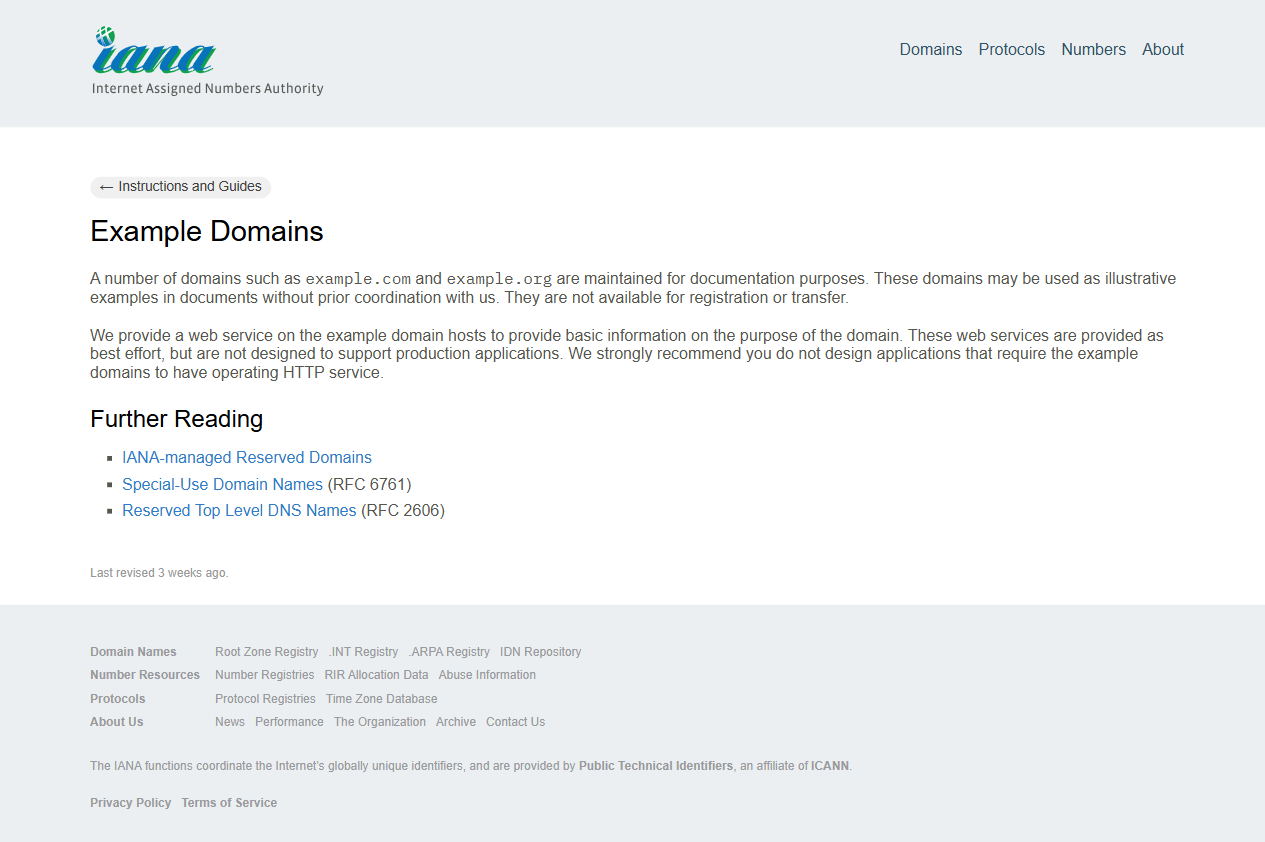
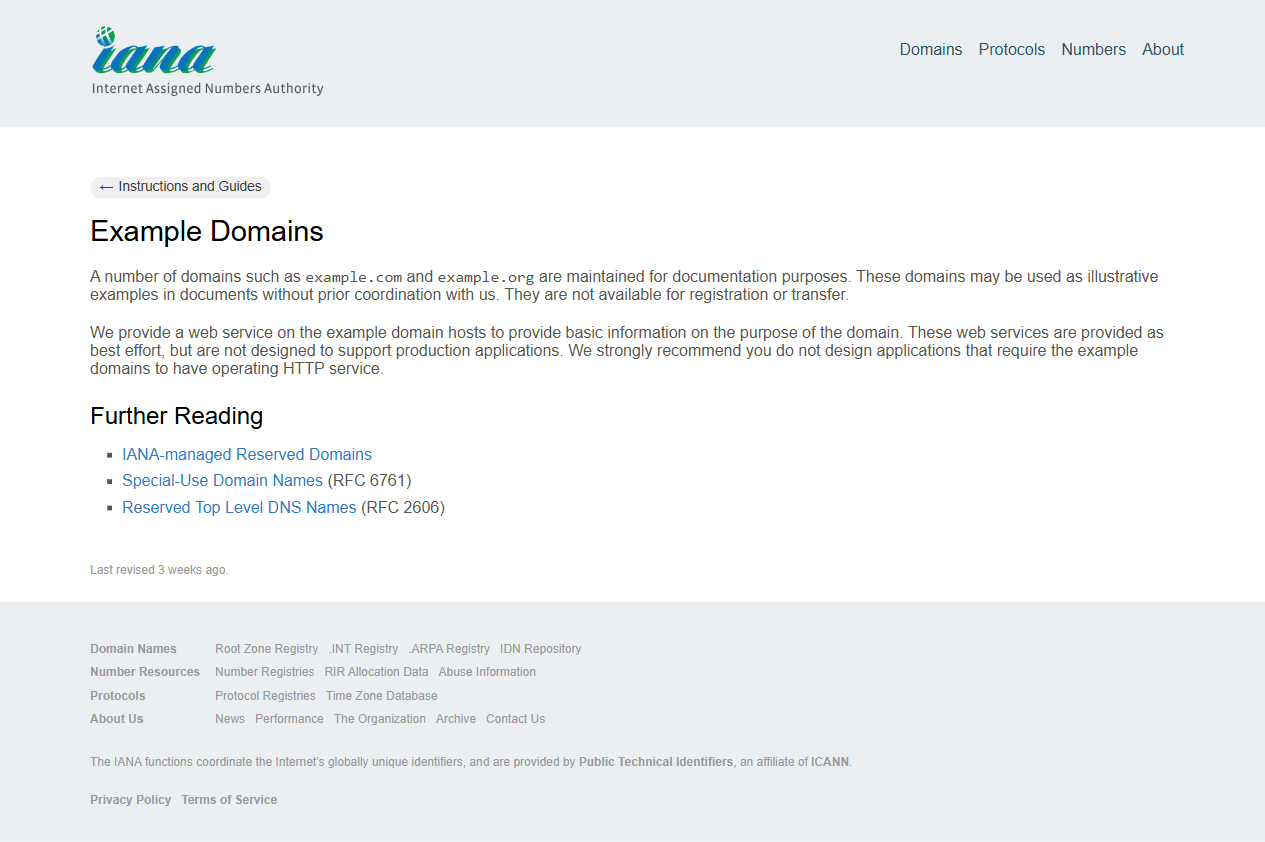
feat: successfully integrated test reporter and FastAPI endpoints

diff --git a/backend/reporter.py b/backend/reporter.py
@@ -1,0 +1,93 @@
+import json
+import os
+from datetime import datetime
+
+class TestReporter:
+    def __init__(self, project_name="WebTrace AI QA"):
+        self.project_name = project_name
+        self.timestamp = datetime.now().strftime("%Y-%m-%d %H:%M:%S")
+        self.test_results = []
+        self.visual_bugs = []
+
+    def add_test_result(self, test_name, status, details, evidence_path=None):
+        """Individual test step ya assertion ka result add karne ke liye"""
+        self.test_results.append({
+            "test_name": test_name,
+            "status": status, # "PASS" ya "FAIL"
+            "details": details,
+            "evidence_path": evidence_path
+        })
+
+    def add_visual_bug(self, component, issue_description, severity="Medium"):
+        """Akanksha ke visual auditor/DOM checks se mile bugs add karne ke liye"""
+        self.visual_bugs.append({
+            "component": component,
+            "issue": issue_description,
+            "severity": severity
+        })
+
+    def generate_json_report(self, output_path="reports/test_report.json"):
+        """React Frontend dashboard ke liye JSON report generate karega"""
+        os.makedirs(os.path.dirname(output_path), exist_ok=True)
+        
+        total_tests = len(self.test_results)
+        passed_tests = sum(1 for t in self.test_results if t["status"] == "PASS")
+        failed_tests = total_tests - passed_tests
+        pass_rate = (passed_tests / total_tests * 100) if total_tests > 0 else 0
+
+        report_data = {
+            "project": self.project_name,
+            "timestamp": self.timestamp,
+            "summary": {
+                "total_tests": total_tests,
+                "passed": passed_tests,
+                "failed": failed_tests,
+                "pass_rate": round(pass_rate, 2),
+                "total_visual_bugs": len(self.visual_bugs)
+            },
+            "test_results": self.test_results,
+            "visual_bugs": self.visual_bugs
+        }
+
+        with open(output_path, "w") as f:
+            json.dump(report_data, f, indent=4)
+        
+        return report_data
+
+    def generate_markdown_report(self, output_path="reports/SUMMARY.md"):
+        """GitHub ya local review ke liye Markdown summary generate karega"""
+        os.makedirs(os.path.dirname(output_path), exist_ok=True)
+        
+        total_tests = len(self.test_results)
+        passed_tests = sum(1 for t in self.test_results if t["status"] == "PASS")
+        
+        md_content = f"""# 📊 Test Execution Report: {self.project_name}
+* **Generated At:** {self.timestamp}
+* **Total Tests:** {total_tests}
+* **Passed:** {passed_tests}
+* **Failed:** {total_tests - passed_tests}
+
+---
+
+## 🔍 Test Results
+| Test Name | Status | Details / Evidence |
+| :--- | :---: | :--- |
+"""
+        for t in self.test_results:
+            status_icon = "✅ PASS" if t["status"] == "PASS" else "❌ FAIL"
+            md_content += f"| {t['test_name']} | {status_icon} | {t['details']} |\n"
+
+        md_content += """
+---
+
+## 🎨 Visual & DOM Audit (Akanksha's Module Integration)
+| Component | Issue Description | Severity |
+| :--- | :--- | :--- |
+"""
+        for b in self.visual_bugs:
+            md_content += f"| {b['component']} | {b['issue']} | **{b['severity']}** |\n"
+
+        with open(output_path, "w", encoding="utf-8") as f:
+            f.write(md_content)
+
+        return output_path

diff --git a/backend/main.py b/backend/main.py
@@ -1,5 +1,7 @@
+import os
 import asyncio
 from fastapi import FastAPI, HTTPException
+from fastapi.responses import FileResponse
 from pydantic import BaseModel
 from backend.agents.tester import BrowserTester
 
@@ -44,3 +46,24 @@ async def run_browser_test(request: TestRequest):
         }
     except Exception as e:
         raise HTTPException(status_code=500, detail=str(e))
+
+@app.get("/api/report/json")
+def get_json_report():
+    # Robust path handling (root ya backend folder dono check karega)
+    report_path = "reports/test_report.json"
+    if not os.path.exists(report_path):
+        report_path = "backend/reports/test_report.json"
+        
+    if os.path.exists(report_path):
+        return FileResponse(report_path, media_type="application/json")
+    return {"error": "Report not found. Please run tests first!"}
+
+@app.get("/api/report/summary")
+def get_markdown_report():
+    summary_path = "reports/SUMMARY.md"
+    if not os.path.exists(summary_path):
+        summary_path = "backend/reports/SUMMARY.md"
+        
+    if os.path.exists(summary_path):
+        return FileResponse(summary_path, media_type="text/markdown")
+    return {"error": "Summary not found."}

diff --git a/backend/test_reporter.py b/backend/test_reporter.py
@@ -1,0 +1,17 @@
+from reporter import TestReporter
+
+# Reporter object initialize karo
+reporter = TestReporter(project_name="WebTrace AI QA")
+
+# Kuch dummy test results add karte hain (check karne ke liye)
+reporter.add_test_result("Login Flow Validation", "PASS", "User successfully logged in with valid credentials.")
+reporter.add_test_result("Dashboard Data Load", "FAIL", "API timeout while fetching user metrics.", "screenshots/error_load.png")
+
+# Akanksha ke visual/DOM check ka data add karte hain
+reporter.add_visual_bug("Navbar UI", "Alignment breaks on 1024px screen width", "High")
+
+# Report generate karne ke commands
+reporter.generate_json_report()
+reporter.generate_markdown_report()
+
+print("🎉 Success! Reports successfully generated check the reports folder.")

diff --git a/backend/reports/SUMMARY.md b/backend/reports/SUMMARY.md
@@ -1,0 +1,20 @@
+# 📊 Test Execution Report: WebTrace AI QA
+* **Generated At:** 2026-10-22 22:48:37
+* **Total Tests:** 2
+* **Passed:** 1
+* **Failed:** 1
+
+---
+
+## 🔍 Test Results
+| Test Name | Status | Details / Evidence |
+| :--- | :---: | :--- |
+| Login Flow Validation | ✅ PASS | User successfully logged in with valid credentials. |
+| Dashboard Data Load | ❌ FAIL | API timeout while fetching user metrics. |
+
+---
+
+## 🎨 Visual & DOM Audit (Akanksha's Module Integration)
+| Component | Issue Description | Severity |
+| :--- | :--- | :--- |
+| Navbar UI | Alignment breaks on 1024px screen width | **High** |
